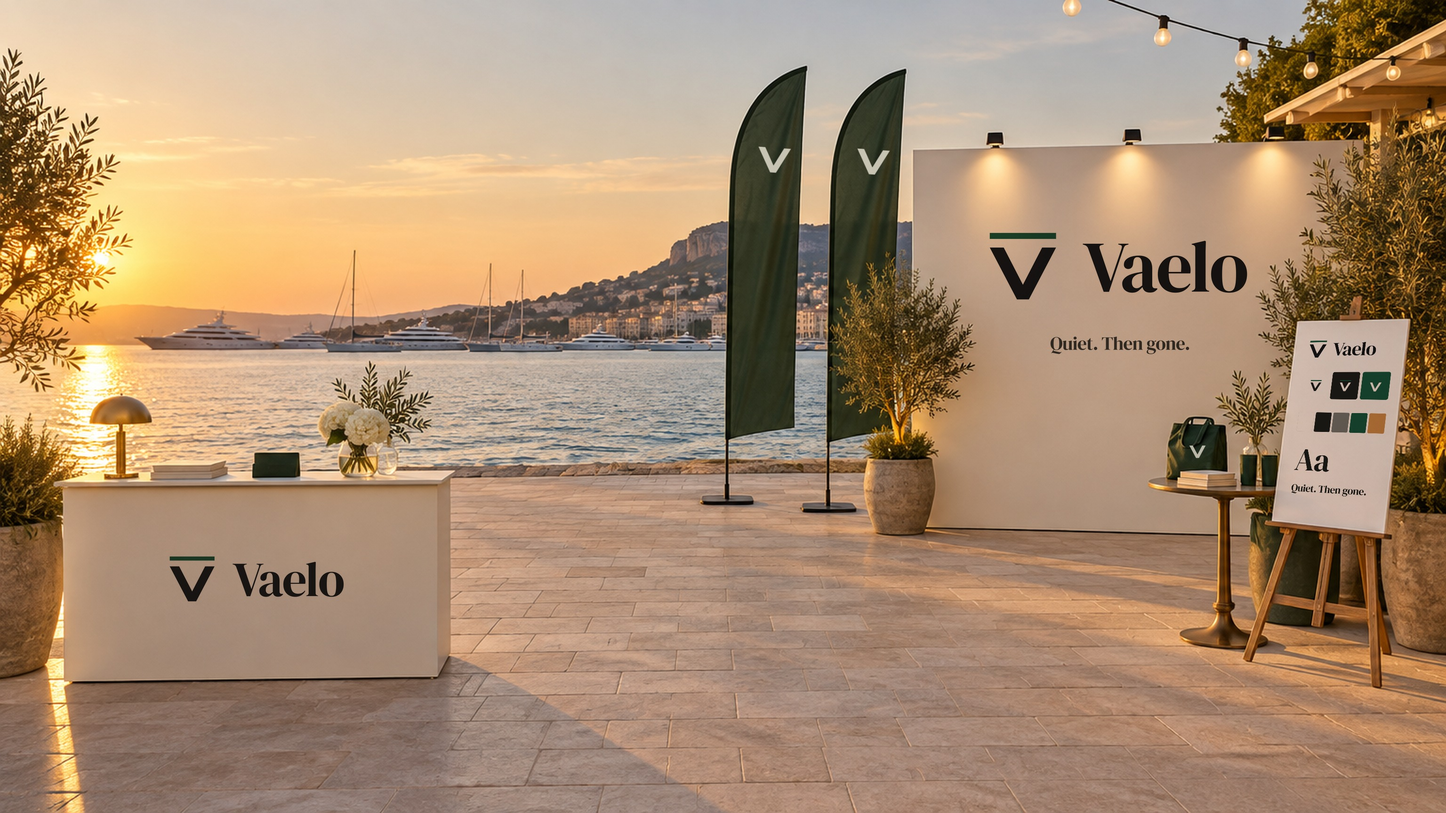
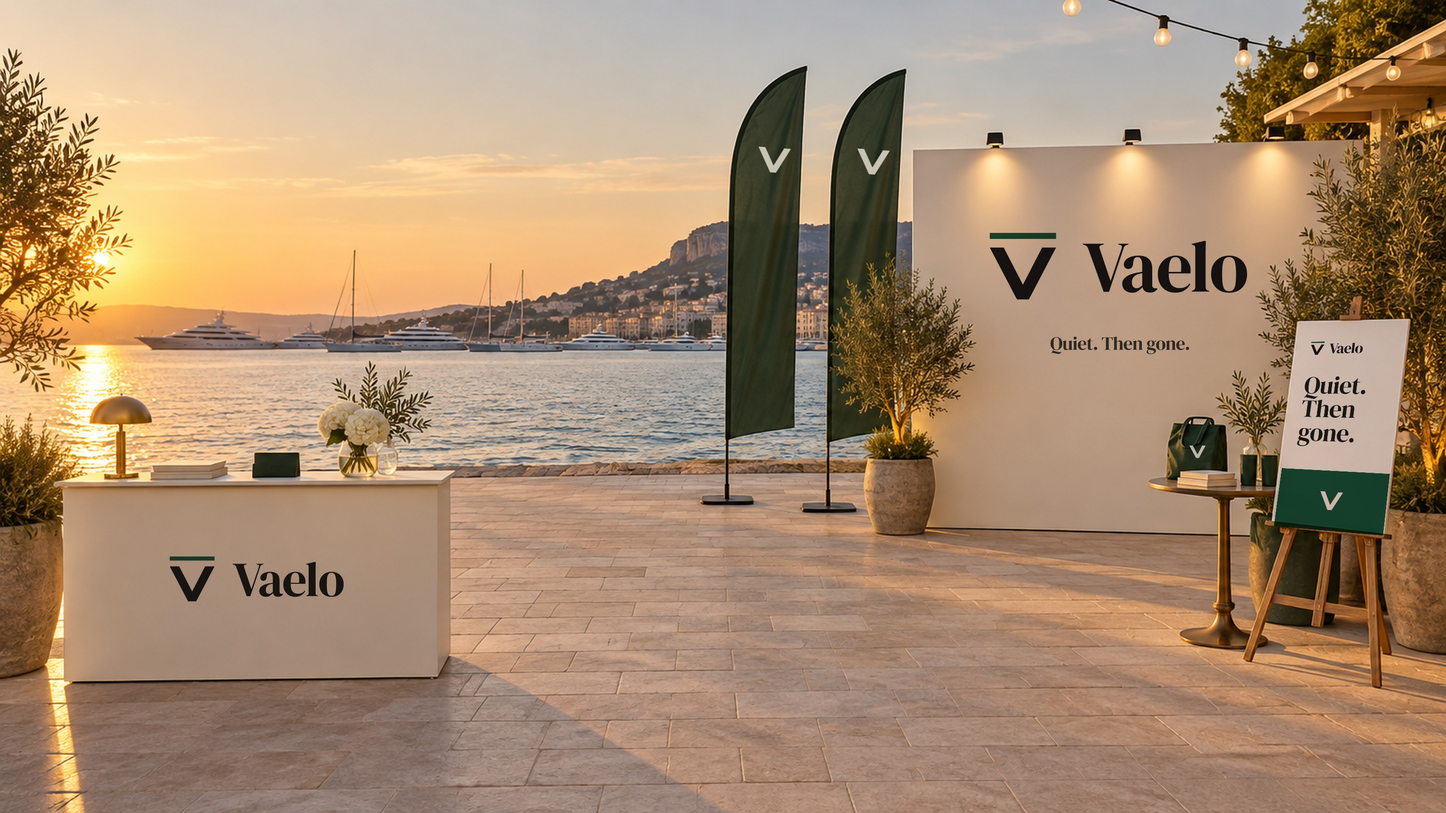
Home hero: a welcome poster on the easel instead of the brand guideline
Claude-Session: https://claude.ai/code/session_011BdSE2fEeiEv9ZgoYmWAPn

Changed region(s): [[0.875, 0.4062, 0.9688, 0.6562]]

diff --git a/src/app/(site)/page.tsx b/src/app/(site)/page.tsx
@@ -12,12 +12,12 @@ export function generateMetadata() {
  */
 const HERO_IMAGE = {
   image: {
-    url: "/home/hero-pavilion.jpg",
+    url: "/home/hero-quay.jpg",
     width: 2560,
     height: 1440,
-    alt: "A brand launch pavilion on a marina quay at sunset: a logo wall, flags, a brand guide on an easel and a welcome desk",
+    alt: "A brand launch pavilion on a marina quay at sunset: a logo wall, flags, a welcome poster on an easel and a welcome desk",
   },
-  phone: { url: "/home/hero-pavilion-phone.jpg", width: 1000, height: 1440 },
+  phone: { url: "/home/hero-quay-phone.jpg", width: 1000, height: 1440 },
   // Stop 01, Brand: the launch pavilion of a brand we made up to show our work. It is ours, not a client; the car comes at a later stop.
   caption: "Vaelo is a concept brand we designed to show our work.",
   character: true,
@@ -25,7 +25,7 @@ const HERO_IMAGE = {
   spots: [
     { x: 77.5, y: 33, title: "Logo", text: "A name and a mark people know at a glance.", side: "left" as const },
     { x: 53.5, y: 20, title: "Flags and signs", text: "The brand outdoors, readable from across the quay." },
-    { x: 92.7, y: 52, title: "Brand guide", text: "Colours, type and rules in one guide, so everything matches.", side: "left" as const },
+    { x: 92.7, y: 52, title: "Event signs", text: "Welcome boards and posters in the brand's own voice.", side: "left" as const },
     { x: 15.6, y: 57.5, title: "Stationery", text: "Cards, brochures and letterheads in the same look." },
     { x: 82.8, y: 55.4, title: "Merchandise", text: "Bags, cups and gifts that carry the brand.", side: "left" as const },
   ],

diff --git a/design/hero/car/scenes/brand-pavilion.py b/design/hero/car/scenes/brand-pavilion.py
@@ -1,0 +1,45 @@
+from PIL import Image, ImageFilter, ImageDraw
+import numpy as np, cv2
+K=2
+sc=Image.open('raw.png').convert('RGB').resize((1536*K,864*K),Image.LANCZOS)
+S=np.asarray(sc).astype(np.float32)/255
+B=Image.open('brand.png').convert('RGB')
+def crop(x0,y0,x1,y1): return B.crop((int(x0*4.8),int(y0*4.8),int(x1*4.8),int(y1*4.8)))
+paper=np.array([0xF2,0xF1,0xED],np.float32)/255
+def norm(im):
+    a=np.asarray(im).astype(np.float32)/255; return np.clip(a/paper,0,1)
+def mult_rect(art,x,y,w,strength=0.93):
+    h=int(round(w*art.height/art.width)); a=norm(art.resize((int(w*K),int(h*K)),Image.LANCZOS))
+    X,Y=int(x*K),int(y*K); reg=S[Y:Y+a.shape[0],X:X+a.shape[1]]; reg[:]=reg*(1-strength+strength*a)
+def mult_quad(art,quad,strength=0.95):
+    a=norm(art); h,w=a.shape[:2]
+    M=cv2.getPerspectiveTransform(np.float32([[0,0],[w,0],[w,h],[0,h]]),np.float32(quad)*K)
+    wa=cv2.warpPerspective(a,M,(S.shape[1],S.shape[0]),flags=cv2.INTER_AREA,borderValue=(1,1,1)); S[:]=S*(1-strength+strength*wa)
+logo=crop(55,128,395,232); quiet=crop(805,533,1135,592)
+mult_rect(logo,1045,238,290); mult_rect(quiet,1112,352,156,0.8)
+mult_rect(logo,176,585,196,0.9)
+# welcome poster on the easel: logo, the stacked headline from our banner, and the mark on green
+ban=Image.open('/home/user/Opsiogen/design/hero/car/scenes/banner-art.png').convert('RGBA')
+bg=Image.new('RGBA',ban.size,(0xF2,0xF1,0xED,255)); ban=Image.alpha_composite(bg,ban).convert('RGB')
+head=ban.crop((40,120,430,475))
+bd=Image.new('RGB',(620,1180),(0xF2,0xF1,0xED)); d=ImageDraw.Draw(bd)
+def put(im,x,y,w):
+    im=im.resize((w,int(w*im.height/im.width)),Image.LANCZOS); bd.paste(im,(x,y)); return y+im.height
+y=put(logo,70,90,330); y=put(head,60,y+100,470)
+d.rectangle((0,850,620,1180),fill=(0x0E,0x4D,0x34))
+t=crop(553,570,647,647).resize((150,int(150*77/94)),Image.LANCZOS); bd.paste(t,(235,955))
+mult_quad(bd,[[1382,346],[1494,343],[1469,569],[1353,559]])
+t=np.asarray(crop(553,570,647,647)).astype(np.float32)/255; lum=t.mean(2); g=lum.min(); al=np.clip((lum-g)/(lum.max()-g),0,1)
+def vmark(cx,cy,w,rot=0,op=0.92):
+    h=int(w*al.shape[0]/al.shape[1]); m=cv2.resize(al,(int(w*K),int(h*K)),interpolation=cv2.INTER_AREA)
+    if rot:
+        R=cv2.getRotationMatrix2D((m.shape[1]/2,m.shape[0]/2),rot,1); m=cv2.warpAffine(m,R,(m.shape[1],m.shape[0]))
+    X,Y=int(cx*K-m.shape[1]/2),int(cy*K-m.shape[0]/2); reg=S[Y:Y+m.shape[0],X:X+m.shape[1]]
+    col=np.array([0.93,0.91,0.84],np.float32); reg[:]=reg*(1-m[...,None]*op)+col*m[...,None]*op*0.9
+vmark(822,170,40,-4); vmark(927,172,40,-4); vmark(1272,480,20,0,0.85)
+out=Image.fromarray((np.clip(S,0,1)*255).astype(np.uint8)); out.save('scene.png')
+out.crop((2560,560,3072,1260)).save('easel.jpg',quality=90)
+R='/home/user/Opsiogen/'
+out.save(R+'design/hero/car/scenes/01-brand-launch-pavilion.jpg',quality=92)
+out.resize((2560,1440),Image.LANCZOS).filter(ImageFilter.UnsharpMask(1,40,2)).save(R+'public/home/hero-quay.jpg',quality=80,progressive=True,optimize=True)
+out.crop((1500,0,2700,1728)).resize((1000,1440),Image.LANCZOS).filter(ImageFilter.UnsharpMask(1,40,2)).save(R+'public/home/hero-quay-phone.jpg',quality=78,progressive=True,optimize=True)

diff --git a/LAUNCH-CHECKLIST.md b/LAUNCH-CHECKLIST.md
@@ -46,7 +46,7 @@ Tick items as they are done.
 - [ ] Character built as a real 3D model and approved by the owner (17 Nov): `design/hero/character/model` (built by `build.py`), drawn live in `design/hero/orb-proto` (`page.html` is the source, `make.py` builds `index.html`). Still to do before it goes on the site: slim the model file (about 2.4 MB now) and load it after the first screen.
 - [ ] Scroll script and scene plan for the journey, waiting for the owner's yes: `design/hero/journey-script` (the launch day of our own electric supercar, through six outdoor stops; the owner chose the car on 17 Nov, a low wedge supercar of our own design, no real maker; travel legs blur with speed and the light tail uses our colours only). Order of work is in the plan: the journey in plain colours first (no credits), then the booth stop for real.
 - [ ] The car for the journey (17 Nov): 3D model built by us in `design/hero/car/model` (`build.py`) under the working name Vaelo (name not yet checked against trademarks). The owner first asked for a Lamborghini-type wedge, found the hand-built wedge did not look real, then shared a soft concept-car picture as the idea; the model is now one smooth pearl body with a glass canopy, wheels ringed with light and a light blade in our colours (`design/hero/car/hero.jpg`). The reference is another designer's concept, used for mood only, never copied. Later the same day the owner shared an advert with a green Porsche Taycan and a serif headline and asked for that font and car: the Figma headlines now use the closest serif we are free to use (DM Serif Display); the Porsche itself cannot be our brand's car, so the owner still has to choose between our own model in that mood, an original real-looking car once image credits are back, or a licensed 3D model. Car views and the launch brand designs (brand board, build-your-car page, owner app, billboard, shelter poster, social post, show stand panels) are in Figma: https://www.figma.com/design/U7fxv5ipzHrCeX7kmJf2bv. The image credits ran out on 17 Nov (they reset on 5 Dec), so the scene pictures wait for the reset or a top-up.
-- [x] On staging now (17 Nov), until video credits arrive: the Home hero is stop 01 of the journey, Brand, for our concept car brand Vaelo (the owner confirmed the whole story is car branding, and that the car itself is not shown first; a café scene and the show stand with the car were tried and dropped). The picture is a launch pavilion on a marina quay at sunset with our Figma brand designs placed on it: logo wall, flags, the brand guide on an easel, the welcome desk and a bag (`design/hero/car/scenes/01-brand-launch-pavilion.jpg`), with one small line saying Vaelo is a concept brand we designed, so nobody takes it for a client or for a car website. Our character is drawn live (`src/components/sections/HeroCharacter.tsx`, model in `public/home/character.glb`, loaded after the page) with a pool of coloured light below it; the heading sits small at the top left (above the character on phones). Five points on the brand items (logo, flags and signs, brand guide, stationery, merchandise): when the pointer goes to one, the character turns to look at it and a small screen says in a few words what we do there; left alone it shows them one by one, and a press on the character (the way it works on phones) shows the next one beside it. On scroll the heading fades, the character flies off to the right with a soft, see-through fog of rainbow light pouring from its back only while it moves fast, and one line about our services takes the heading's place. The cursor dot and the character now follow the mouse much faster. One closing call to action on Home, tour text removed. Checked locally at 1440px and 390px only. Still to do: an entrance for the character after the loading panel, a real phone check, PageSpeed on the new hero, a sharper scene picture (enlarged from 1536px, needs upscale credits), and a trademark check on the name Vaelo before launch.
+- [x] On staging now (17 Nov), until video credits arrive: the Home hero is stop 01 of the journey, Brand, for our concept car brand Vaelo (the owner confirmed the whole story is car branding, and that the car itself is not shown first; a café scene and the show stand with the car were tried and dropped). The picture is a launch pavilion on a marina quay at sunset with our Figma brand designs placed on it: logo wall, flags, a welcome poster on an easel, the welcome desk and a bag (`design/hero/car/scenes/01-brand-launch-pavilion.jpg`, built by `brand-pavilion.py` in the same folder; the owner asked for only what a real event would show, so no brand guideline board), with one small line saying Vaelo is a concept brand we designed, so nobody takes it for a client or for a car website. Our character is drawn live (`src/components/sections/HeroCharacter.tsx`, model in `public/home/character.glb`, loaded after the page) with a pool of coloured light below it; the heading sits small at the top left (above the character on phones). Five points on the brand items (logo, flags and signs, event signs, stationery, merchandise): when the pointer goes to one, the character turns to look at it and a small screen says in a few words what we do there; left alone it shows them one by one, and a press on the character (the way it works on phones) shows the next one beside it. On scroll the heading fades, the character flies off to the right with a soft, see-through fog of rainbow light pouring from its back only while it moves fast, and one line about our services takes the heading's place. The cursor dot and the character now follow the mouse much faster. One closing call to action on Home, tour text removed. Checked locally at 1440px and 390px only. Still to do: an entrance for the character after the loading panel, a real phone check, PageSpeed on the new hero, a sharper scene picture (enlarged from 1536px, needs upscale credits), and a trademark check on the name Vaelo before launch.
 - Home today shows the trial picture of the glass studio (day in the light theme, night in the dark theme).
 
 ## Already done (4 November 2026)
